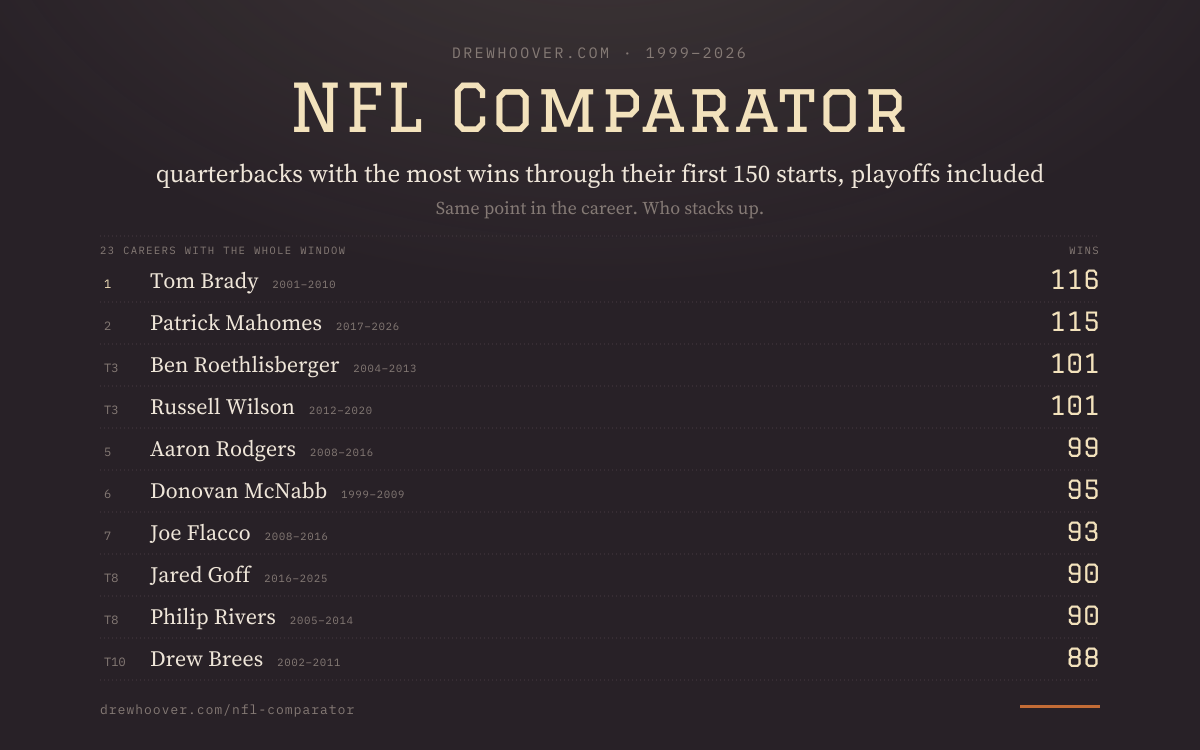
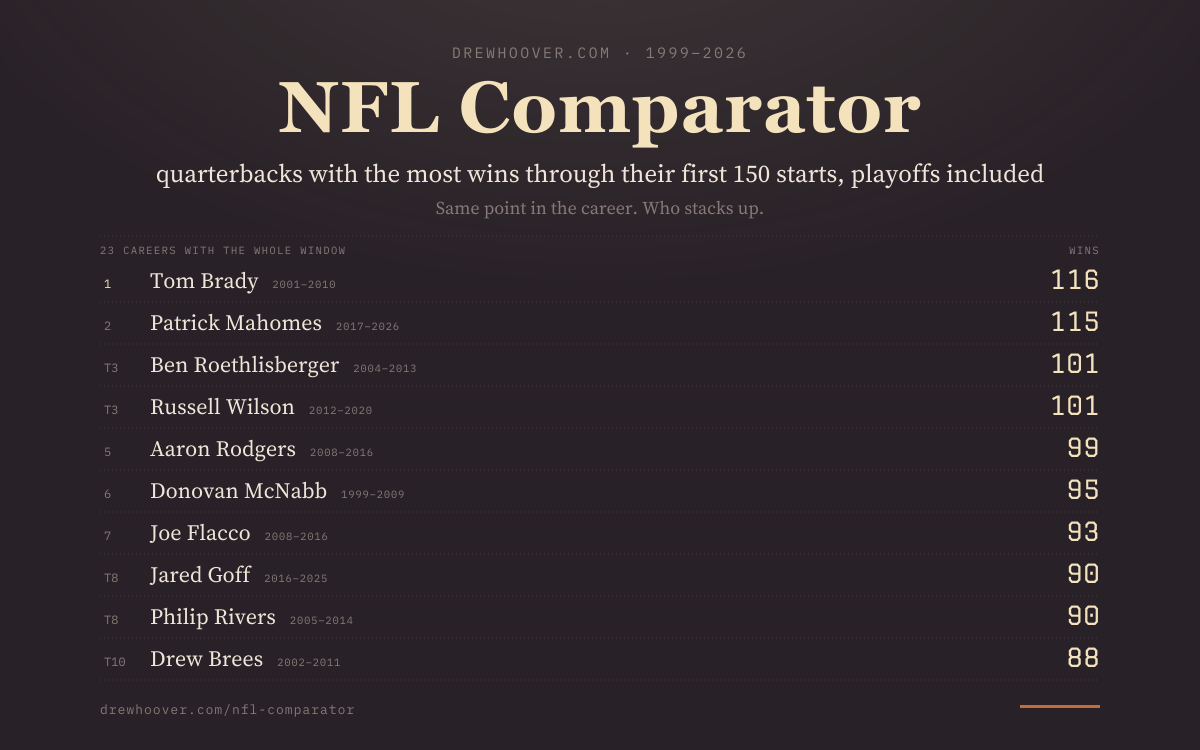
Title in Georgia Bold, the face Hostile Territory's poster uses: page h1 and the share image

Changed region(s): [[0.2158, 0.092, 0.7708, 0.2147]]

diff --git a/index.html b/index.html
@@ -9,7 +9,7 @@
     <title>NFL Comparator</title>
     <link rel="preconnect" href="https://fonts.googleapis.com" />
     <link rel="preconnect" href="https://fonts.gstatic.com" crossorigin />
-    <link href="https://fonts.googleapis.com/css2?family=Graduate&amp;family=Source+Serif+4:ital,opsz,wght@0,8..60,400;0,8..60,600;1,8..60,400&amp;family=IBM+Plex+Mono:wght@400;500;600&amp;display=swap" rel="stylesheet" />
+    <link href="https://fonts.googleapis.com/css2?family=Graduate&amp;family=Source+Serif+4:ital,opsz,wght@0,8..60,400;0,8..60,600;0,8..60,700;1,8..60,400&amp;family=IBM+Plex+Mono:wght@400;500;600&amp;display=swap" rel="stylesheet" />
     <link rel="icon" type="image/svg+xml" href="/favicon.svg" />
     <link rel="icon" type="image/png" sizes="32x32" href="/favicon-32.png" />
     <link rel="icon" type="image/png" sizes="192x192" href="/favicon-192.png" />

diff --git a/src/styles.css b/src/styles.css
@@ -34,9 +34,9 @@ main { max-width: 880px; margin: 0 auto; padding: 28px 24px 80px; position: rela
 @media (max-width: 600px) { main { padding: 18px 14px 60px; } }
 
 h1 {
-  font-family: 'Graduate', serif; font-weight: 400; text-align: center;
+  font-family: Georgia, 'Source Serif 4', 'Times New Roman', serif; font-weight: 700; text-align: center;
   font-size: clamp(34px, 6vw, 56px); line-height: 1.08; margin: 12px 0 0; color: var(--cream);
-  letter-spacing: 0.03em;
+  letter-spacing: 0.02em;
 }
 h2 { font-family: 'Graduate', serif; font-weight: 400; font-size: 19px; letter-spacing: 0.04em; margin: 40px 0 4px; color: var(--cream); }
 a { color: var(--cream); }
